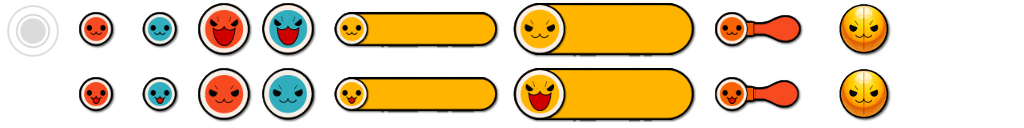
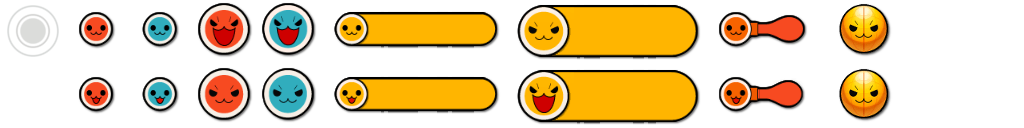
スキン修正・小節線表示・BPM廃止

Changed region(s): [[0.5, 0.0, 0.8125, 0.4688], [0.5, 0.5312, 0.8125, 0.9688]]

diff --git a/Project/ScenePlay.cpp b/Project/ScenePlay.cpp
@@ -9,22 +9,18 @@
 static const int WAIT_APPEAR_TIME = 40;
 static const int MUSIC_VOL = 80;
 static const int MAX_CODE = 128;
-static const int OFF_SET = 118;
-static const int RATIO = 6;
+static const int OFFSET = 180;
+static const double PITCH = 13.30;
 int a = 0;
 
 
 ScenePlay::ScenePlay( int select, SongsPtr songs ) :
 _state( STATE::STATE_NORMAL ),
+_play_state( PLAY_STATE::PLAY_STATE_WAIT ),
 _count( 0 ),
-_old_position( 0 ),
-_play_state( PLAY_STATE::PLAY_STATE_WAIT ) {
-	_bg_image[ STATE::STATE_NORMAL] = Drawer::loadGraph( "Resource/img/bg.png" );
-	_bg_image[ STATE::STATE_HOT ] = Drawer::loadGraph( "Resource/img/bg_clear.png" );
-	_bg_image[ STATE::STATE_CLEAR ] = Drawer::loadGraph( "Resource/img/bg_hot.png" );
-	_bg_image[ STATE::STATE_MISS ] = Drawer::loadGraph( "Resource/img/bg_miss.png" );
-	_bg_image[ STATE::STATE_MISS_CLEAR ] = Drawer::loadGraph( "Resource/img/bg_miss_clear.png" );
-	_taiko_image = Drawer::loadGraph( "Resource/img/notes.png" );
+_before_seq( 0 ),
+_idx( 1 ) {
+	loadImages( );
 	Songs::SONG music_data = songs->getSongData( select );
 	std::string music_file = music_data.directory + "/" + songs->getMusicFileName( select );
 	_music = Sound::load( music_file.c_str( ) );
@@ -32,16 +28,14 @@ _play_state( PLAY_STATE::PLAY_STATE_WAIT ) {
 	_code_list = songs->getCode( select );
  	_offset = songs->getOffset( select );
 	Drawer::changeFont( H_FONT );
-	_bpm = songs->getBpm( select );
 	createBullet( );
 }
 
 
 ScenePlay::~ScenePlay( ) {
-	for ( int i = 0; i < STATE::MAX_STATE; i++ ) {
-		Drawer::deleteGraph( _bg_image[ i ] );
+	for ( int i = 0; i < IMAGE::MAX_IMAGE; i++ ) {
+		Drawer::deleteGraph( _image[ i ] );
 	}
-	Drawer::deleteGraph( _taiko_image );
 	Sound::stop( _music );
 	Sound::destroy( _music );
 }
@@ -68,13 +62,14 @@ void ScenePlay::update( GamePtr game ) {
 	}
 }
 
-void ScenePlay::draw( ) {
+void ScenePlay::draw( GamePtr game ) {
 	drawBg( );
 	drawBarLine( );
 	drawBullet( );
 	drawTitle( );
+	drawMTaiko( game );
 	if ( _play_state == PLAY_STATE::PLAY_STATE_WAIT ) {
-		Drawer::drawString( 180, 240, "Pleas push SPACE key  start" );
+		Drawer::drawString( 350, 240, "Pleas push SPACE key  start" );
 	}
 	Drawer::drawString( 0, 0, "%d", a );
 }
@@ -85,14 +80,29 @@ void ScenePlay::initialize( ) {
 	_play_state = PLAY_STATE::PLAY_STATE_PLAY;
 }
 
+void ScenePlay::loadImages( ) {
+	_image[ IMAGE::IMAGE_BG_NORMAL		] = Drawer::loadGraph( "Resource/img/bg.png" );
+	_image[ IMAGE::IMAGE_BG_HOT			] = Drawer::loadGraph( "Resource/img/bg_clear.png" );
+	_image[ IMAGE::IMAGE_BG_CLEAR		] = Drawer::loadGraph( "Resource/img/bg_hot.png" );
+	_image[ IMAGE::IMAGE_BG_MISS		] = Drawer::loadGraph( "Resource/img/bg_miss.png" );
+	_image[ IMAGE::IMAGE_BG_MISS_CLEAR	] = Drawer::loadGraph( "Resource/img/bg_miss_clear.png" );
+	_image[ IMAGE::IMAGE_NOTS			] = Drawer::loadGraph( "Resource/img/notes.png" );
+	_image[ IMAGE::IMAGE_MTAIKO			] = Drawer::loadGraph( "Resource/img/mtaiko.png" );
+	_image[ IMAGE::IMAGE_MTAIKO_DONG	] = Drawer::loadGraph( "Resource/img/mtaikoflash_red.png" );
+	_image[ IMAGE::IMAGE_MTAIKO_KA		] = Drawer::loadGraph( "Resource/img/mtaikoflash_blue.png" );
+}
+
 void ScenePlay::updatePlay( GamePtr game ) {
-	int music_time = Sound::getTime( _music );
-	int idx = ( music_time * 106 / _bpm  + _offset / 15 ) * RATIO;
-	//if ( music_time == 1000 ) {
-	//	bpm = MAX_CODE * 60 
-	//}
-	a = idx;
-	updateBullet( idx, game );
+	int now = Sound::getTime( _music );
+	int seq = (int)( (double)( now - OFFSET - _offset / 10 ) / PITCH );
+	int mark = _idx * 128;
+	if ( seq >= mark &&
+		_before_seq < mark ) {
+		_idx++;
+	}
+	_before_seq = seq;
+	a = seq;
+	updateBullet( seq, game );
 
 	_count++;
 	_count %= WAIT_APPEAR_TIME;
@@ -115,20 +125,38 @@ void ScenePlay::updateBullet( int idx, GamePtr game ) {
 }
 
 void ScenePlay::drawBg( ) {
-	int width = 512;
-	int height = 384;
-	Drawer::drawGraph( 0, 0, 0, 0, WINDOW_WIDTH, WINDOW_HEIGHT, width, height, _bg_image[ _state ] );
-	Drawer::drawGraph( 0, 0, 50, 200, 50 + 128, 200 + 128, 64, 64, _taiko_image );
+	int bg_width = 512;
+	int bg_height = 384;
+	int nots_chip_size = 64;
+	int judge_width = nots_chip_size * 2;
+	int judge_height = nots_chip_size * 2;
+	const int ROAD_Y = 180;
+	const int ROAD_HEIGHT = 150;
+	int judge_x1 = JUDGE_X - judge_width / 2;
+	int judge_x2 = JUDGE_X + judge_width - judge_width / 2;
+
+	Drawer::drawGraph( 0, 0, 0, 0, WINDOW_WIDTH, WINDOW_HEIGHT, bg_width, bg_height, _image[ _state ] );
+	Drawer::drawGraph( 0, 0, judge_x1, ROAD_Y + 20, judge_x2, ROAD_Y + judge_height + 20, nots_chip_size, nots_chip_size, _image[ IMAGE::IMAGE_NOTS ] );
 }
 
 void ScenePlay::drawBarLine( ) const {
-	//	Drawer::drawLine( x, 200, x, 300 );
+	for ( int i = 0; i < 6; i++ ) {
+		int mark = ( _idx - 1 + i ) * 128;
+		if ( mark < 200 ) {
+			continue;
+		}
+		int x = ( mark - _before_seq ) * SPEED + JUDGE_X;
+		if ( i == 1 ) {
+			Drawer::drawString( 0, 80, "%d", x );
+		}
+		Drawer::drawLine( x, 180, x, 330 );
+	}
 }
 
 void ScenePlay::drawBullet( ) const {
 	std::list< BulletPtr >::const_iterator ite = _bullets.begin( );
 	while ( ite != _bullets.end( ) ) {
-		(*ite)->draw( _taiko_image );
+		(*ite)->draw( _image[ IMAGE::IMAGE_NOTS ] );
 		ite++;
 	}
 }
@@ -138,6 +166,25 @@ void ScenePlay::drawTitle( ) const {
 	int x = WINDOW_WIDTH - _title.length( ) * ( FONT_SIZE / 2 ) - 20;
 	int y = 340;
 	Drawer::drawString( x, y, _title.c_str( ) );
+}
+
+void ScenePlay::drawMTaiko( GamePtr game ) const {
+	const int ROAD_Y = 180;
+	int y1 = ROAD_Y + 42;
+	int y2 = y1 + 55;
+	Drawer::drawGraph( 0, 0, 0, -135, 450, 335, 512, 512, _image[ IMAGE::IMAGE_MTAIKO ] );
+	if ( game->isDongLeft( ) ) {
+		Drawer::drawGraph( 0, 0, 60 - 32, y1, 115 - 32, y2, 32, 32, _image[ IMAGE::IMAGE_MTAIKO_DONG ] );
+	}
+	if ( game->isDongRight( ) ) {
+		Drawer::drawGraph( 1, 0, 50 + 32, y1, 110 + 32, y2, 32, 32, _image[ IMAGE::IMAGE_MTAIKO_DONG ] );
+	}
+	if ( game->isKaLeft( ) ) {
+		Drawer::drawGraph( 0, 0, 60 - 32, y1 - 28, 115 - 32, y2 + 32, 32, 64, _image[ IMAGE::IMAGE_MTAIKO_KA ] );
+	}
+	if ( game->isKaRight( ) ) {
+		Drawer::drawGraph( 1, 0, 50 + 32, y1 - 28, 105 + 32, y2 + 32, 32, 64, _image[ IMAGE::IMAGE_MTAIKO_KA ] );
+	}
 }
 
 void ScenePlay::createBullet( ) {
@@ -152,7 +199,7 @@ void ScenePlay::createBullet( ) {
 			if ( type > 4 || type == 0 ) {
 				continue;
 			}
-			_bullets.push_back( BulletPtr( new Bullet( (Bullet::TYPE)type, ( idx ) * RATIO ) ) );
+			_bullets.push_back( BulletPtr( new Bullet( (Bullet::TYPE)type, idx ) ) );
 		}
 	}
 }

diff --git a/Project/ScenePlay.h b/Project/ScenePlay.h
@@ -12,7 +12,7 @@ public:
 	virtual ~ScenePlay( );
 public:
 	void update( GamePtr game );
-	void draw( );
+	void draw( GamePtr game );
 private:
 	enum STATE {
 		STATE_NORMAL,
@@ -29,18 +29,31 @@ private:
 		PLAY_STATE_END,
 		MAX_PLAY_STATE
 	};
+	enum IMAGE {
+		IMAGE_BG_NORMAL,
+		IMAGE_BG_CLEAR,
+		IMAGE_BG_HOT,
+		IMAGE_BG_MISS,
+		IMAGE_BG_MISS_CLEAR,
+		IMAGE_NOTS,
+		IMAGE_MTAIKO,
+		IMAGE_MTAIKO_DONG,
+		IMAGE_MTAIKO_KA,
+		MAX_IMAGE
+	};
 private:
 	void initialize( );
+	void loadImages( );
 	void updatePlay( GamePtr game );
 	void updateBullet( int idx, GamePtr game );
 	void drawBg( );
 	void drawBarLine( ) const;
 	void drawBullet( ) const;
 	void drawTitle( ) const;
+	void drawMTaiko( GamePtr game ) const;
 	void createBullet( );
 private:
-	int _bg_image[ STATE::MAX_STATE ];
-	int _taiko_image;
+	int _image[ IMAGE::MAX_IMAGE ];
 	STATE _state;
 	PLAY_STATE _play_state;
 	int _count;
@@ -50,8 +63,9 @@ private:
 	std::vector< std::vector< char > > _code_list;
 	int _offset;
 	bool _start;
+	int _before_seq;
+	int _dong;
 	int _bpm;
-	int _old_idx;
-	int _old_position;
+	int _idx;
 };
 

diff --git a/Project/Bullet.cpp b/Project/Bullet.cpp
@@ -6,8 +6,7 @@ static const int POSITION_Y = 200;
 static const int CHIP_SIZE = 64;
 static const int MOVE_SPEED = 30;
 static const int INIT_SPEED_Y = -20;
-static const int JUDGE_X = 35;
-static const int JUDGE_GOOD_RANGE = 20;
+static const int JUDGE_GOOD_RANGE = 5;
 
 Bullet::Bullet( TYPE type, int idx ) {
 	_type = type;
@@ -31,7 +30,7 @@ Bullet::~Bullet( ) {
 
 void Bullet::update( int idx, GamePtr game ) {
 	if ( !_turn ) {
-		_x = ( _idx - idx ) + JUDGE_X;
+		_x = ( _idx - idx ) * SPEED + JUDGE_X;
 	}
 	if ( _turn ) {
 		_x += MOVE_SPEED;
@@ -47,9 +46,12 @@ void Bullet::update( int idx, GamePtr game ) {
 }
 
 void Bullet::draw( int image ) const {
+	if ( _x > WINDOW_WIDTH + _width ) {
+		return;
+	}
 	int tx = _chip_pos[ _type ].tx;
 	int ty = _chip_pos[ _type ].ty;
-	Drawer::drawGraph( tx, ty, _x, _y, _x + _width, _y + _height, CHIP_SIZE, CHIP_SIZE, image );
+	Drawer::drawGraph( tx, ty, _x - _width / 2, _y, _x + _width - _width / 2, _y + _height, CHIP_SIZE, CHIP_SIZE, image );
 }
 
 Bullet::JUDGE Bullet::checkJudge( int idx, GamePtr game ) {

diff --git a/Project/SceneSongSelect.h b/Project/SceneSongSelect.h
@@ -7,7 +7,7 @@ public:
 	virtual ~SceneSongSelect( );
 public:
 	void update( GamePtr game );
-	void draw( );
+	void draw( GamePtr game );
 private:
 	void drawSelecting( unsigned int color );
 	void drawSong( int x1, int y1, int x2, int y2, unsigned int color, int idx );

diff --git a/Project/SceneSongSelect.cpp b/Project/SceneSongSelect.cpp
@@ -38,7 +38,7 @@ void SceneSongSelect::update( GamePtr game ) {
 	}
 }
 
-void SceneSongSelect::draw( ) {
+void SceneSongSelect::draw( GamePtr game ) {
 	Drawer::drawGraph( 0, 0, 0, 0, WINDOW_WIDTH, WINDOW_HEIGHT, 512, 384, _bg_image );
 	drawSongList( );
 }

diff --git a/Project/Game.cpp b/Project/Game.cpp
@@ -146,7 +146,7 @@ void Game::update( ) {
 	updateSe( );
 	if ( _scene_ptr ) {
 		_scene_ptr->update( getThis( ) );
-		_scene_ptr->draw( );
+		_scene_ptr->draw( getThis( ) );
 	}
 	if ( _old_scene != _scene ) {
 		changeScene( _scene );

diff --git a/Project/SceneMenu.cpp b/Project/SceneMenu.cpp
@@ -36,7 +36,7 @@ void SceneMenu::update( GamePtr game ) {
 	}
 }
 
-void SceneMenu::draw( ) {
+void SceneMenu::draw( GamePtr game ) {
 	int menu_width = 100;
 	int menu_height = 600;
 	int sx1 = MENU_X;

diff --git a/Project/define.h b/Project/define.h
@@ -6,6 +6,8 @@
 const int WINDOW_WIDTH = 1080;
 const int WINDOW_HEIGHT = 720;
 const int FONT_SIZE = 40;
+const int SPEED = 8;
+const int JUDGE_X = 220;
 
 enum GRAPH {
 	GRAPH_TITLE,

diff --git a/Project/SceneTitle.cpp b/Project/SceneTitle.cpp
@@ -22,7 +22,7 @@ SceneTitle::~SceneTitle( ) {
 	}
 }
 
-void SceneTitle::draw( ) {
+void SceneTitle::draw( GamePtr game ) {
 	SetFontSize( FONT_SIZE * 4 );
 	int x = 50;
 	int y = 50;

diff --git a/Project/Scene.h b/Project/Scene.h
@@ -10,6 +10,6 @@ public:
 	virtual ~Scene( );
 public:
 	virtual void update( GamePtr game ) = 0;
-	virtual void draw( ) { };
+	virtual void draw( GamePtr game ) { };
 };
 

diff --git a/Project/SceneMenu.h b/Project/SceneMenu.h
@@ -13,7 +13,7 @@ private:
 	};
 public:
 	void update( GamePtr game );
-	void draw( );
+	void draw( GamePtr game );
 	void select( GamePtr game );
 private:
 	int _select;

diff --git a/Project/SceneTitle.h b/Project/SceneTitle.h
@@ -7,7 +7,7 @@ public:
 	virtual ~SceneTitle( );
 public:
 	void update( GamePtr game );
-	void draw( );
+	void draw( GamePtr game );
 private:
 	int _bg_image;
 };
